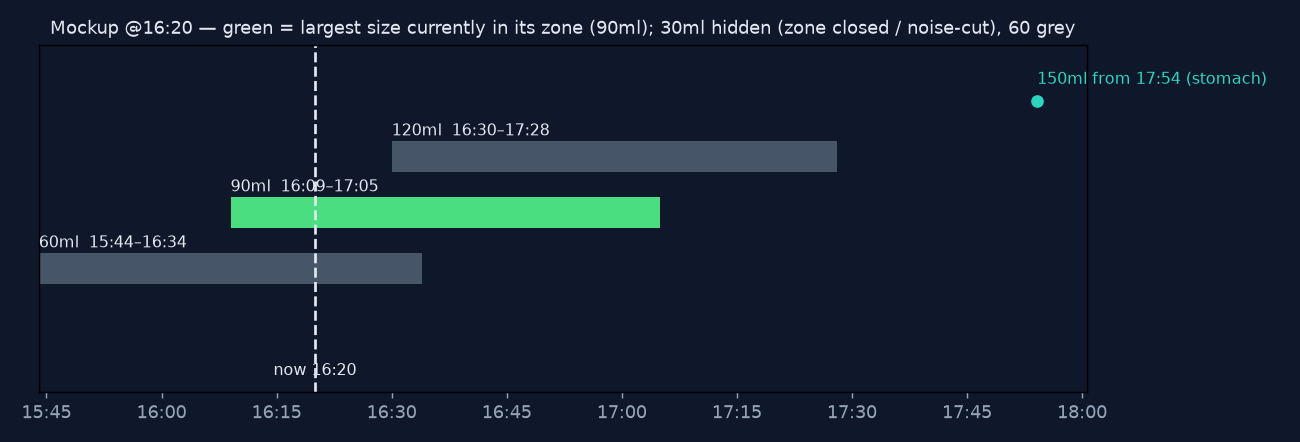
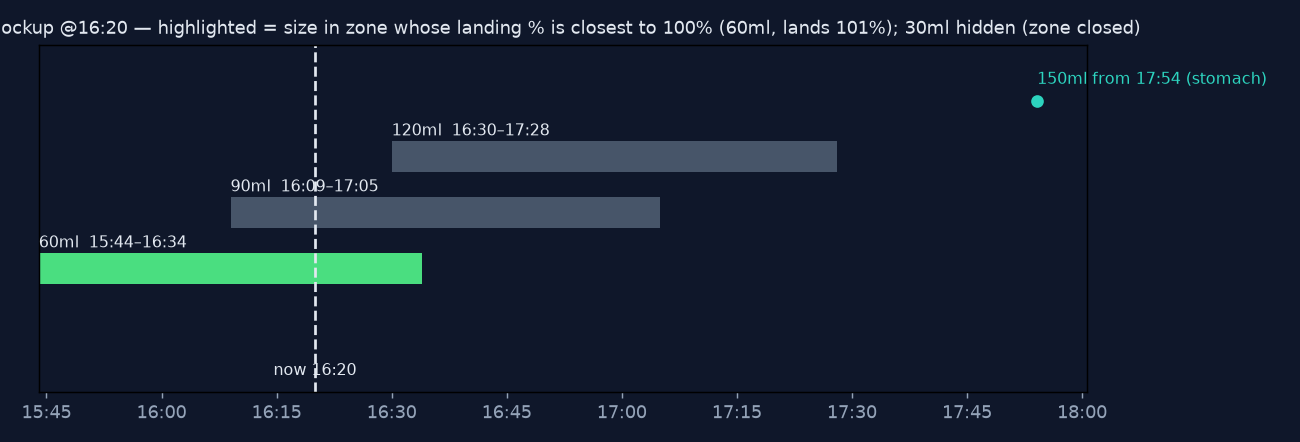
docs(feeding-zones): decide highlight = closest to 100% (tie→larger); 3-day replay + issues; mockups use new rule

Changed region(s): [[0.0, 0.0294, 0.8923, 0.0882], [0.1538, 0.4412, 0.5231, 0.5294], [0.0308, 0.5588, 0.3385, 0.6471]]

diff --git a/design/2026-10-25-feeding-zones.md b/design/2026-10-25-feeding-zones.md
@@ -160,7 +160,7 @@ Example 2 — **22/10 19:15, 70 ml, status 96.0 % (−56 ml), intake flat for th
 
 Rules proposed for discussion:
 
-1. **Green = largest size whose zone contains now** (lands between 100 and 105 %). If none is in zone: if some sizes are collapsed and fit now → largest of them, labelled "under target"; otherwise nothing green and the next opening is shown.
+1. **Highlighted size (decided 2026-10-25, §10)** = among sizes whose zone contains now, the one whose landing % right now is **closest to 100 %** (= nearest its zone close); tie → the larger size. If no zone contains now: the **largest collapsed size that already fits the stomach** (it lands closest to 100 % from below), labelled "under target". Otherwise nothing is highlighted and the next zone opening is shown.
 2. **Noise-cut**: hide sizes whose zone is past, and optionally smaller sizes in zone (show only green + upcoming).
 3. **Labels**: bar from open to close; label `90 · 16:09–17:05`, with the close marked as "ideal".
 4. **No ghosts** — the bar's left end already says "since when".
@@ -198,6 +198,7 @@ Verifier (outside the repo, read-only): `/workspace/milkwise-verify/verify_zones
 | Date | Decision | By |
 |---|---|---|
 | 2026-10-25 08:45 CET | **Zone-open bound stays at 105 %** — it coincides with the yellow status band (`yellowThresholdPct` = 5), so "zone open" = "giving it now just stays out of yellow". | Koen |
+| 2026-10-25 08:52 CET | **Highlight = size whose landing % is closest to 100 %** when several zones contain now (i.e. the one nearest its zone close). Tie-break: larger size. Collapsed sizes only take part when no zone contains now: then the largest collapsed size that fits the stomach is highlighted ("under target"). Used in Figures D, F, G. | Koen |
 | 2026-10-25 08:45 CET | **Ceiling stays at preferred + 1 size** (120 → 150); larger sizes get no zone. | Koen |
 | 2026-10-25 (earlier) | Direction: 100 % is the consistent "ideal" rule (zone close); ghost markers to be dropped. | Koen (leaning, confirmed by this design) |
 
@@ -208,7 +209,7 @@ Verifier (outside the repo, read-only): `/workspace/milkwise-verify/verify_zones
 *Figure F — real data. Top: 24/10 08:00–18:00, now = 16:08. Bottom: 16/10 16:30–19:45 replayed with now = 18:30 (the behind-with-real-zones example of §4.3). Dark app style, per-size colours, start-% labels, feed lines, now line.*
 
 **11.1 One fixed colour per bottle size.** Every size keeps the same colour everywhere (timeline, history, settings, feed list). Proposed palette: Okabe-Ito, which stays distinguishable for the common colour-vision deficiencies — 30 orange `#E69F00`, 60 sky blue `#56B4E9`, 90 bluish green `#009E73`, 120 yellow `#F0E442`, 150 reddish purple `#CC79A7` (180/210 would get blue `#0072B2` / vermillion `#D55E00` if ever shown). Colour is never the only cue: bars always carry the size label.
-*Conflict with "green = can take now":* green would then just be "the 90 colour". Proposal: "now" becomes **emphasis on the size's own colour** — full saturation + white outline (or glow) + a bold label "90 ml · NOW" — while other bars are drawn at reduced opacity. Only the largest size in zone gets the emphasis (§5 rule 1). The status card keeps its green/yellow/red semantics; the timeline no longer uses green as a state.
+*Conflict with "green = can take now":* green would then just be "the 90 colour". Proposal: "now" becomes **emphasis on the size's own colour** — full saturation + white outline (or glow) + a bold label "90 ml · NOW" — while other bars are drawn at reduced opacity. Exactly one size gets the emphasis, chosen by the closest-to-100 % rule (§5 rule 1, decided 2026-10-25). The status card keeps its green/yellow/red semantics; the timeline no longer uses green as a state.
 
 **11.2 Starting percentage on each bar.** Label: `90 ml 16:09–17:05 · 105→100%`. The start % is the landing status when the zone opens: 105 % if the 105 % bound opens it, or the lower stomach-limited value (e.g. `102→100%`) when the stomach opens it. Collapsed sizes show a single landing value as a ring marker (e.g. `○ 94%`). The status at each feed line is printed under the feed label ("status 105%").
 
@@ -223,15 +224,62 @@ On 24/10 the verdicts were: 09:12 ✓ in zone, 12:00 early, 14:30 early. On 16/1
 
 **11.4 Data needed for historic replay.** Feeds (`feeds.json`, timestamped) and weigh-ins (`weights.json`, timestamped → measured / WHO weight per day, hence D) are stored, so zones can be replayed. **Not stored historically:** `preferredBottleWaterMl`, `mlPerKgPerDay`, the yellow/red thresholds, and DOB/sex edits — `settings.json` only holds current values. Replay therefore uses today's settings (the mockups use preferred = 120 throughout; the history scan in §4.3 has the same caveat). Options: (a) accept it (most settings rarely change); (b) store a small `settingsHistory` (timestamp + changed keys) on every settings save; (c) snapshot the computed zones / advice at each feed (`feed.adviceSnapshot`), which also captures app-version changes. Also note that editing or deleting a past weigh-in changes replayed history.
 
+## 11b. Three-day replay (22/10 00:00 – 24/10 16:11)
+
+![3-day replay](img/zones-g-3days.png)
+
+*Figure G — one panel per day, real data from the 24/10 snapshot. **Assumes today's settings** (preferred 120, 150 ml/kg/day, thresholds 5/10 %) for all three days — settings history is not stored (§11.4); D per day from weigh-ins/WHO. Highlight at now (16:11) per the decided rule.*
+
+| Feed | ml | Status after | Verdict (vs zone after previous feed) | Min early (−) / late (+) |
+|---|---|---|---|---|
+| 2026-10-22 00:01 | 120 | 77.9% | collapsed-ok | 0 |
+| 2026-10-22 02:31 | 120 | 81.5% | collapsed-ok | 0 |
+| 2026-10-22 05:15 | 120 | 82.8% | collapsed-ok | 0 |
+| 2026-10-22 08:46 | 70 | 75.1% | non-standard | 0 |
+| 2026-10-22 10:30 | 199 | 85.0% | non-standard | 0 |
+| 2026-10-22 14:40 | 120 | 81.3% | collapsed-ok | 0 |
+| 2026-10-22 16:12 | 120 | 87.7% | early(stomach) | -2 |
+| 2026-10-22 18:00 | 120 | 93.7% | early(stomach) | -5 |
+| 2026-10-22 19:15 | 70 | 96.0% | non-standard | 0 |
+| 2026-10-22 20:45 | 120 | 104.7% | early | -10 |
+| 2026-10-22 23:45 | 107 | 104.6% | non-standard | 0 |
+| 2026-10-23 02:01 | 120 | 105.9% | early | -15 |
+| 2026-10-23 05:55 | 120 | 101.7% | in-zone | 0 |
+| 2026-10-23 08:40 | 120 | 104.5% | in-zone | 0 |
+| 2026-10-23 11:40 | 120 | 103.6% | in-zone | 0 |
+| 2026-10-23 14:05 | 120 | 103.2% | in-zone | 0 |
+| 2026-10-23 16:03 | 120 | 105.9% | early | -11 |
+| 2026-10-23 17:13 | 120 | 107.4% | early | -39 |
+| 2026-10-23 19:52 | 120 | 101.3% | in-zone | 0 |
+| 2026-10-23 21:46 | 120 | 101.6% | in-zone | 0 |
+| 2026-10-24 00:11 | 120 | 103.9% | in-zone | 0 |
+| 2026-10-24 03:11 | 120 | 102.0% | in-zone | 0 |
+| 2026-10-24 06:30 | 120 | 104.4% | in-zone | 0 |
+| 2026-10-24 09:12 | 120 | 104.6% | in-zone | 0 |
+| 2026-10-24 12:00 | 120 | 105.4% | early | -7 |
+| 2026-10-24 14:30 | 120 | 105.1% | early | -2 |
+
+Totals (26 feeds): in zone 12 · early 7 (2–39 min; 2 of them "too early for the stomach", 2 and 5 min) · late 0 · ok-under 4 · non-standard size 4 (70, 199, 70, 107 ml).
+
+### Issues found — does the zone logic work well?
+
+1. **The highlight walks up the sizes and may advise a tiny bottle.** With closest-to-100 %, the highlight is effectively "the smallest size still in zone": on 24/10 it goes 30 (until 16:12) → 60 (until 16:34) → 90 (until 17:05) → 120. At 16:11 it advises **30 ml** although 60 and 90 are also in zone. The *switch times* equal Koen's expected 100 % times of the next-smaller size (nice: monotonic, never goes back), but a parent seeing "30 now" may under-feed. Possible refinements: restrict the candidates to sizes ≥ the last feed size − 1 step, or show the highlight as "best now" plus the preferred-size zone.
+2. **Deep-behind day (22/10, 78–88 %).** Almost every size collapsed all day; the timeline is a field of rings (○) with no bars — readable but uninformative. Collapsed rings only say "fits from S, lands p %"; a short bar from S to the next feed might read better (open question 2).
+3. **Non-standard volumes (70, 199, 107 ml)** cannot be judged against a zone (no row); 199 ml is above preferred + 1 and above the stomach cap × 1.1 (~185 ml) — the zone model has nothing to say about it. Proposal: snap to the nearest standard size for the verdict, or show "non-std".
+4. **Early feeds are common (7/26), mostly 2–15 min** — practically on time. A tolerance (open question 7) would turn most into "in zone". The 39-min early feed (23/10 17:13, 70 min after 16:03) is a top-up and correctly flagged.
+5. **Clutter on normal days.** 4–5 overlapping bars between feeds; with labels above bars the 3-day view at 24 h width is dense but readable at phone width only for ≤ 8 h windows. Proposal: in the app show only the current period plus dimmed past, scrollable, and hide labels of past zones.
+6. **Night feeds** behave like day feeds (no special case needed); zones are just as valid at 02:00. Status at night feeds was 102–106 % on 23–24/10: the night feeds were on time or slightly early.
+7. **Status ≥ 105 % right after a feed** (e.g. 105.9 %, 107.4 %) is consistent with "early" verdicts — the rule correctly explains the yellow status.
+8. **Settings assumption** — replay before a settings change would be wrong; see the companion design *settings history* (separate PR).
+
 ## 12. Open questions for Koen (remaining)
 
-1. Green when two zones overlap → now "emphasis": largest size in zone (proposed), or the one closest to its ideal close?
-2. Collapsed sizes when behind: show as ring + % (proposed), or as a short bar from S?
-3. Smaller sizes that are also in zone: show dimmed (as in Figure F) or hide (noise-cut)?
-4. Bars (Figures D/F) or points with "ok from" sub-labels?
-5. Palette: Okabe-Ito as proposed, or app-brand colours checked with a colour-blind simulator?
-6. How much past to keep visible (since midnight, last 24 h, scrollable all)?
-7. Verdict tolerance: should "early/late" by a few minutes count as in zone (e.g. ±10 min)?
-8. Historic replay: accept current settings, or add `settingsHistory` / per-feed advice snapshots (§11.4)?
+1. Collapsed sizes when behind: show as ring + % (proposed), or as a short bar from S?
+2. Smaller sizes that are also in zone: show dimmed (as in Figure F) or hide (noise-cut)?
+3. Bars (Figures D/F) or points with "ok from" sub-labels?
+4. Palette: Okabe-Ito as proposed, or app-brand colours checked with a colour-blind simulator?
+5. How much past to keep visible (since midnight, last 24 h, scrollable all)?
+6. Verdict tolerance: should "early/late" by a few minutes count as in zone (e.g. ±10 min)?
+7. Historic replay: accept current settings, or add `settingsHistory` / per-feed advice snapshots (§11.4)?
 
-*Closed: upper bound (105 %, §10) · ceiling (preferred + 1, §10).*
+*Closed: upper bound (105 %, §10) · ceiling (preferred + 1, §10) · highlight rule (closest to 100 %, §10).*
